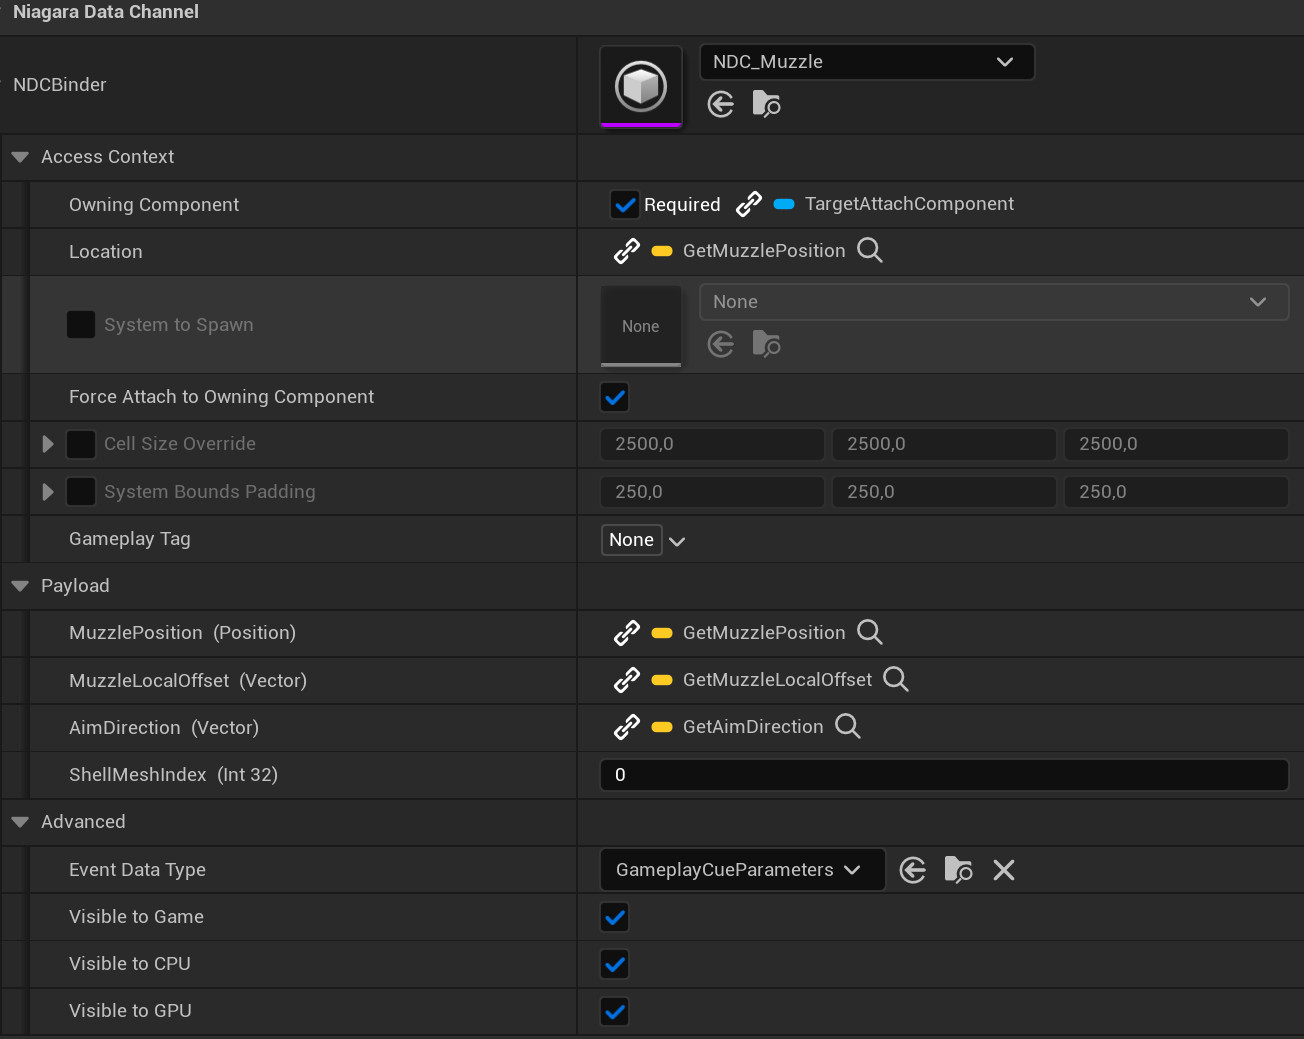
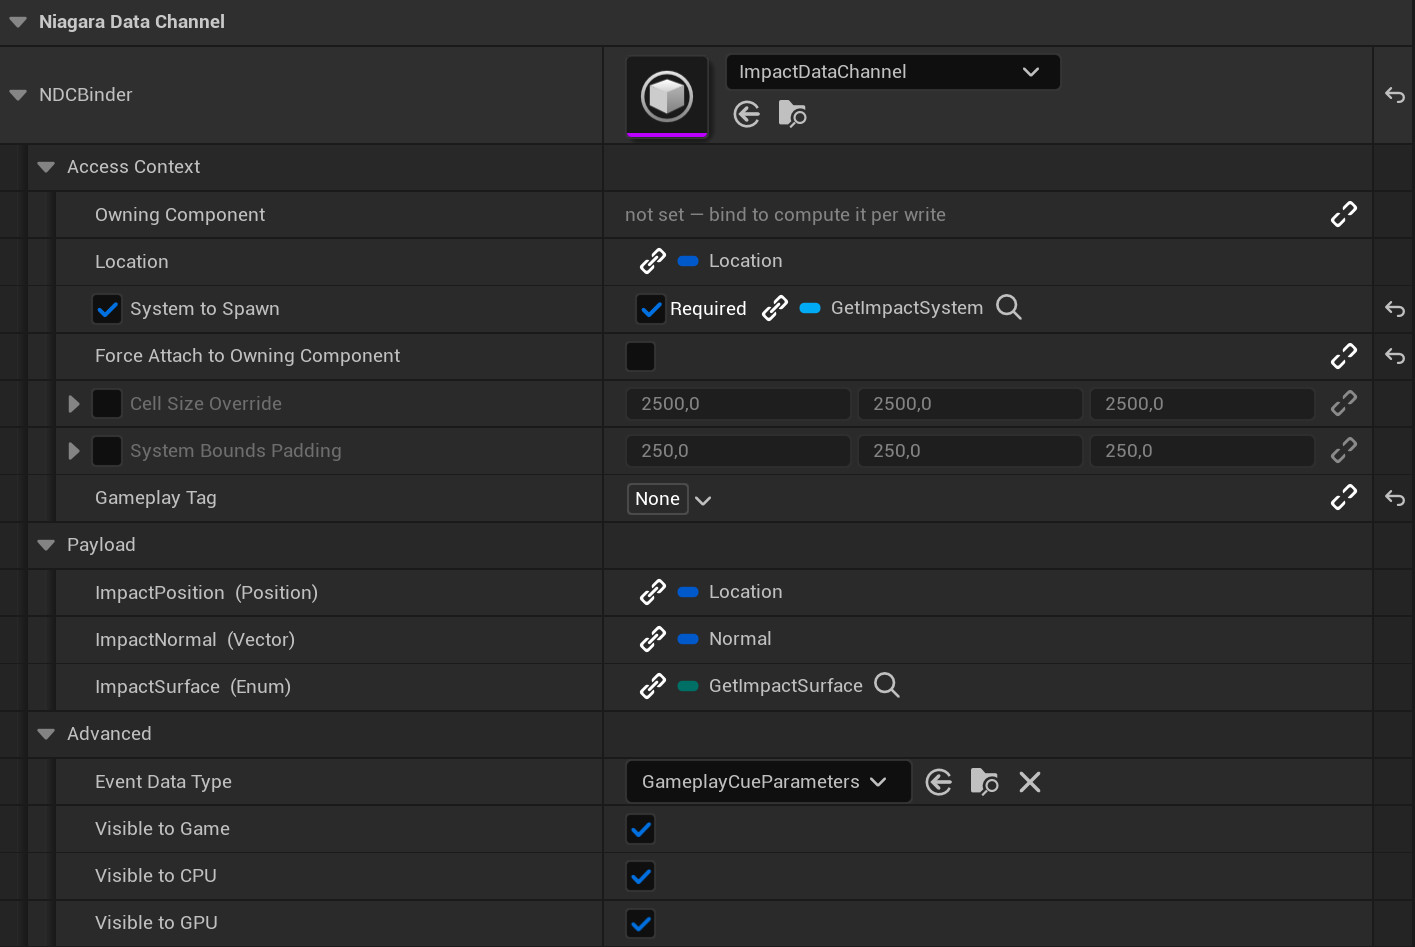
Stop claiming the benchmark runs in Shipping
It does not, and four comments plus the README said it did. The benchmark lives in NDCBinderTests, a
DeveloperTool module, and UBT leaves those out of Shipping: the intermediate tree for a Shipping game
target holds NDCBinder and nothing else. So -ndcbench in a shipped build reaches no code at all.

The claim came from a true premise. A packaged game has no automation framework, no console and, on
an installed engine, no logging, so a switch writing to a file really is the only channel left — which
is why the hook exists. What was never checked is how far that channel reaches, and it reaches
Development and DebugGame. The header now says so, and says what measuring Shipping would actually
take: retyping the module to Runtime and rebuilding.

The README says less about all of it. Which configurations the module is built for is not something a
reader needs before their first write, and anyone who gets as far as wanting Shipping numbers will
find the header. The invocation went the same way, so the header now carries the whole command line
including -unattended and -nullrhi, which previously existed only in the README.

Details panel screenshot updated.

diff --git a/Source/NDCBinderTests/Private/NDCBinderBenchmark.h b/Source/NDCBinderTests/Private/NDCBinderBenchmark.h
@@ -6,15 +6,19 @@
 /**
  * What the writer costs over writing the same thing by hand, as a list of report lines.
  *
- * Deliberately not an automation test and deliberately not behind WITH_DEV_AUTOMATION_TESTS. The
- * question it answers is "what does this cost in Shipping", and a Shipping build has no automation
- * framework, no console to type a command into and, on an installed engine, no logging either —
- * every one of those is a global define that a project cannot change without a unique build
- * environment, which an installed engine forbids.
+ * Deliberately not an automation test and deliberately not behind WITH_DEV_AUTOMATION_TESTS, so that
+ * a build with no automation framework — and, on an installed engine, no logging to report through
+ * either — can still produce the numbers. Both of those are global defines a project cannot change
+ * without a unique build environment, which an installed engine forbids.
  *
  * So it is a plain function with two callers: the automation test, which reports the lines through
- * AddInfo, and a command-line hook that writes them to a file. The second works in any configuration,
- * which is the only way the numbers from different configurations can be compared at all.
+ * AddInfo, and a command-line hook that writes them to a file. The file is what lets the report come
+ * out of a packaged game rather than only out of the editor.
+ *
+ * HOW FAR THAT REACHES. The module this lives in is a DeveloperTool one, which UBT leaves out of
+ * Shipping entirely, so the switch reaches Development and DebugGame and no further. Measuring a
+ * Shipping build means temporarily retyping the module to Runtime in the .uplugin and rebuilding —
+ * worth knowing before reading "what does this cost shipped" into a number from here.
  */
 class UWorld;
 
@@ -30,10 +34,14 @@ namespace NDCBinderBenchmark
 	TArray<FString> Run(UWorld* World = nullptr);
 
 	/**
-	 * Runs it when the command line asks, and writes the report to the file it names:
-	 *   LyraGame.exe ... -ndcbench="C:/path/to/report.txt"
-	 * Does nothing otherwise. Called from the module's startup, and waits from there for the first
-	 * ticking game world so the real-write cases have one.
+	 * Runs it when the command line asks, and writes the report to the file it names. This is the
+	 * whole invocation, and the only place it is written down:
+	 *
+	 *   YourGame.exe YourProject.uproject -ndcbench="C:/path/to/report.txt" -unattended -nullrhi
+	 *
+	 * -unattended keeps it from stopping on a dialog and -nullrhi from opening a window, neither of
+	 * which the report needs. Does nothing without the switch. Called from the module's startup, and
+	 * waits from there for the first ticking game world so the real-write cases have one.
 	 */
 	void RunIfRequestedOnCommandLine();
 }

diff --git a/Source/NDCBinderTests/Private/NDCBinderBenchmark.cpp b/Source/NDCBinderTests/Private/NDCBinderBenchmark.cpp
@@ -556,7 +556,8 @@ TArray<FString> NDCBinderBenchmark::Run(UWorld* World)
 	//~ cache hit, under WITH_EDITOR — a deliberate development-only net over the caching. It is on the
 	//~ function-row path measured above, so a Shipping build's row is cheaper by roughly this much.
 	//~ ProcessEvent also drops its script call-stack tracking there (DO_BLUEPRINT_GUARD), which this
-	//~ cannot isolate — running the whole benchmark in a Shipping build is what settles that.
+	//~ cannot isolate. Settling that means a Shipping run, which needs the module retyped to Runtime
+	//~ first; see NDCBinderBenchmark.h.
 	const UClass* HostClass = Host->GetClass();
 	const FName BoundFuncName(TEXT("PerfGetVector"));
 	const double FindFunctionNs = TimeNs(Iterations, [&]()
@@ -794,8 +795,8 @@ void NDCBinderBenchmark::RunIfRequestedOnCommandLine()
 	// Deferred to the first ticking game world, because that is the earliest moment the real-write
 	// cases can run at all: they need a world, its Niagara manager and a channel handler, and module
 	// startup has none of the three. Every other case is indifferent to when it runs, so waiting
-	// costs nothing and is what lets a Shipping build produce the whole report — which is the only
-	// reason this hook exists rather than an automation test.
+	// costs nothing and is what lets a packaged game produce the whole report rather than the subset
+	// that needs no world — which is the only reason this hook exists rather than an automation test.
 	static FDelegateHandle TickHandle;
 	static bool bRan = false;
 	TickHandle = FWorldDelegates::OnWorldTickStart.AddLambda(

diff --git a/Source/NDCBinderTests/Private/NDCBinderTestsModule.cpp b/Source/NDCBinderTests/Private/NDCBinderTestsModule.cpp
@@ -13,10 +13,10 @@
  * Two things on startup, and neither of them is a test.
  *
  * The benchmark, when the command line asks for it, because that is the one thing that cannot go
- * through the automation framework: a Shipping build has no automation framework, no console and — on
+ * through the automation framework: a packaged game has no automation framework, no console and — on
  * an installed engine — no logging, so a command-line switch writing to a file is the only channel
- * that works in every configuration, and therefore the only one whose numbers can be compared between
- * them.
+ * left. It reaches as far as this module does, which is Development and DebugGame; see
+ * NDCBinderBenchmark.h for what measuring Shipping would take.
  *
  * And a hook that empties the writer's warned-once record before every test. A misconfigured row warns
  * once per owner class and binding for the life of the process, which is right for a game and wrong

diff --git a/README.md b/README.md
@@ -150,12 +150,8 @@ A benchmark ships with the plugin, so its costs do not have to be taken on trust
 row against the same work written by hand, a whole write against the parts it is made of, and one
 write of several elements against the same elements written one at a time.
 
-In the editor it runs as `NDCBinder.Performance.BindingOverhead`. From the command line it runs in any
-configuration, Shipping included, where the automation framework does not exist:
-
-```
-<YourGame>.exe <YourProject>.uproject -ndcbench="C:/path/report.txt" -unattended -nullrhi
-```
+It runs in the editor as `NDCBinder.Performance.BindingOverhead`, and from a packaged game's command
+line. See `NDCBinderBenchmark.h`.
 
 ## Modules
 
